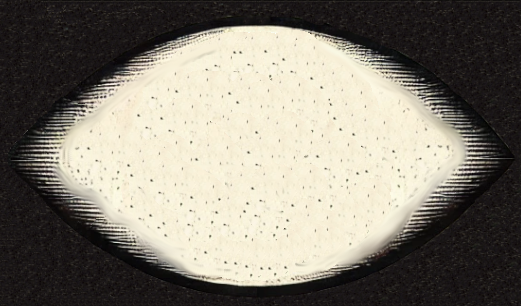
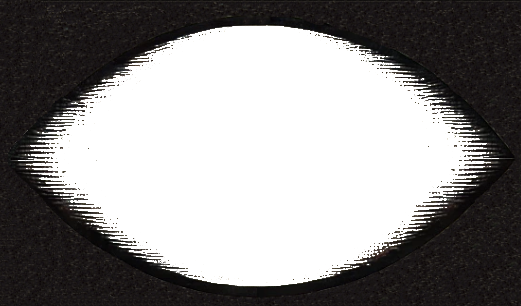
eye effect is even better

diff --git a/Frontend/html/chat.html b/Frontend/html/chat.html
@@ -108,7 +108,7 @@
         display: flex;
         position: relative;
         grid-area: eye;
-        background-color: #f0f0f0;
+        background-color: rgba(255, 255, 255, 0)
     }
 
     /* The next two styles are for the moving eye */
@@ -116,6 +116,7 @@
         display: block !important;
         height: 100%;
         width: 100%;
+        z-index: 2;
     }
 
     #chat-view-eye-pupil {
@@ -126,7 +127,7 @@
         top: 50%;
         left: 50%;
         transform: translate(-50%, -50%);
-        z-index: 2;
+        z-index: 1;
     }
 
     /* For the image at the top right */

diff --git a/Frontend/js/views/chat/configs.js b/Frontend/js/views/chat/configs.js
@@ -167,8 +167,8 @@ export default {
             const centerY = rect.top + rect.height / 2;
             const relativeX = Math.round(event.clientX - centerX);
             const relativeY = Math.round(event.clientY - centerY);
-            const maxMoveX = backgroundImage.width * 0.15;
-            const maxMoveY = backgroundImage.height * 0.1;
+            const maxMoveX = backgroundImage.width * 0.25;
+            const maxMoveY = backgroundImage.height * 0.2;
             let percentageMoveX = 0
             let percentageMoveY = 0
             if (relativeX > 0)
